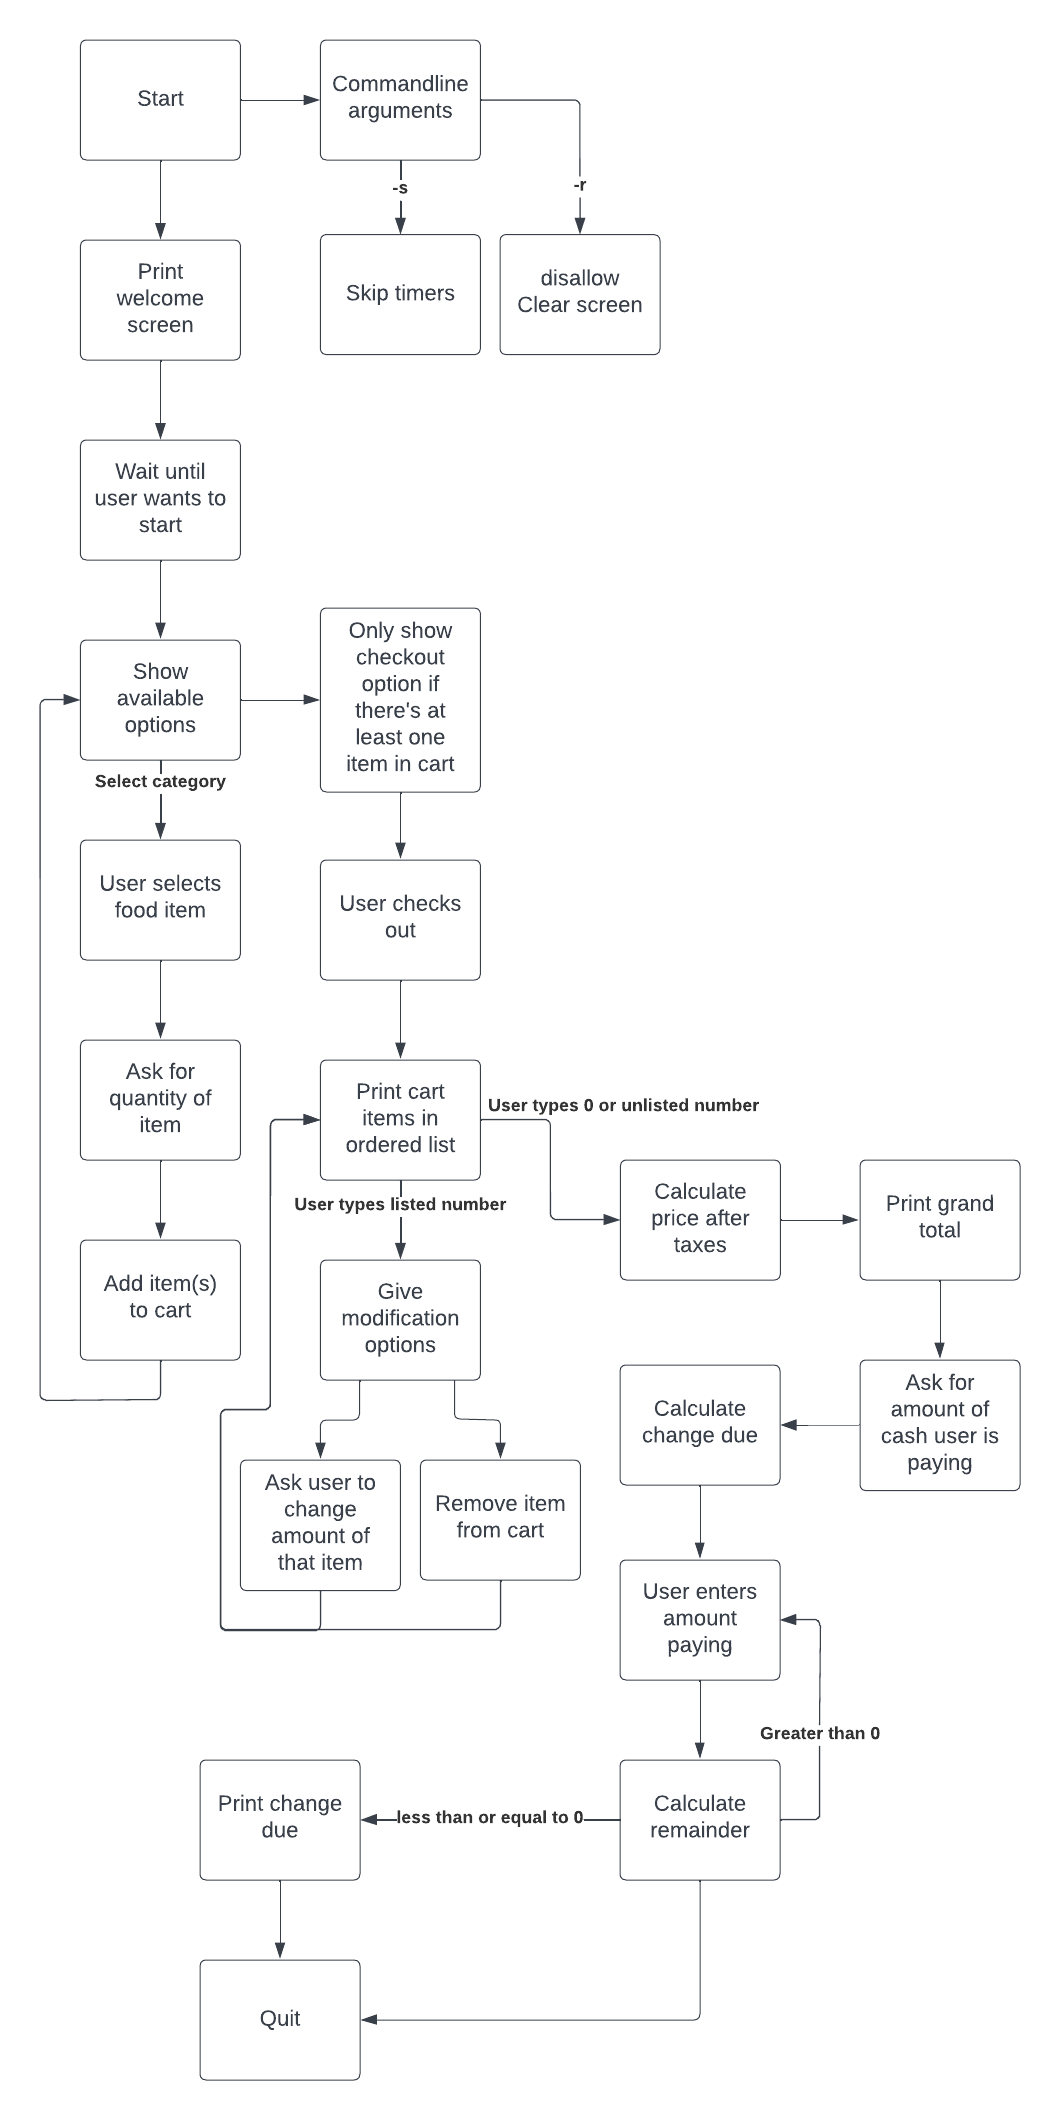
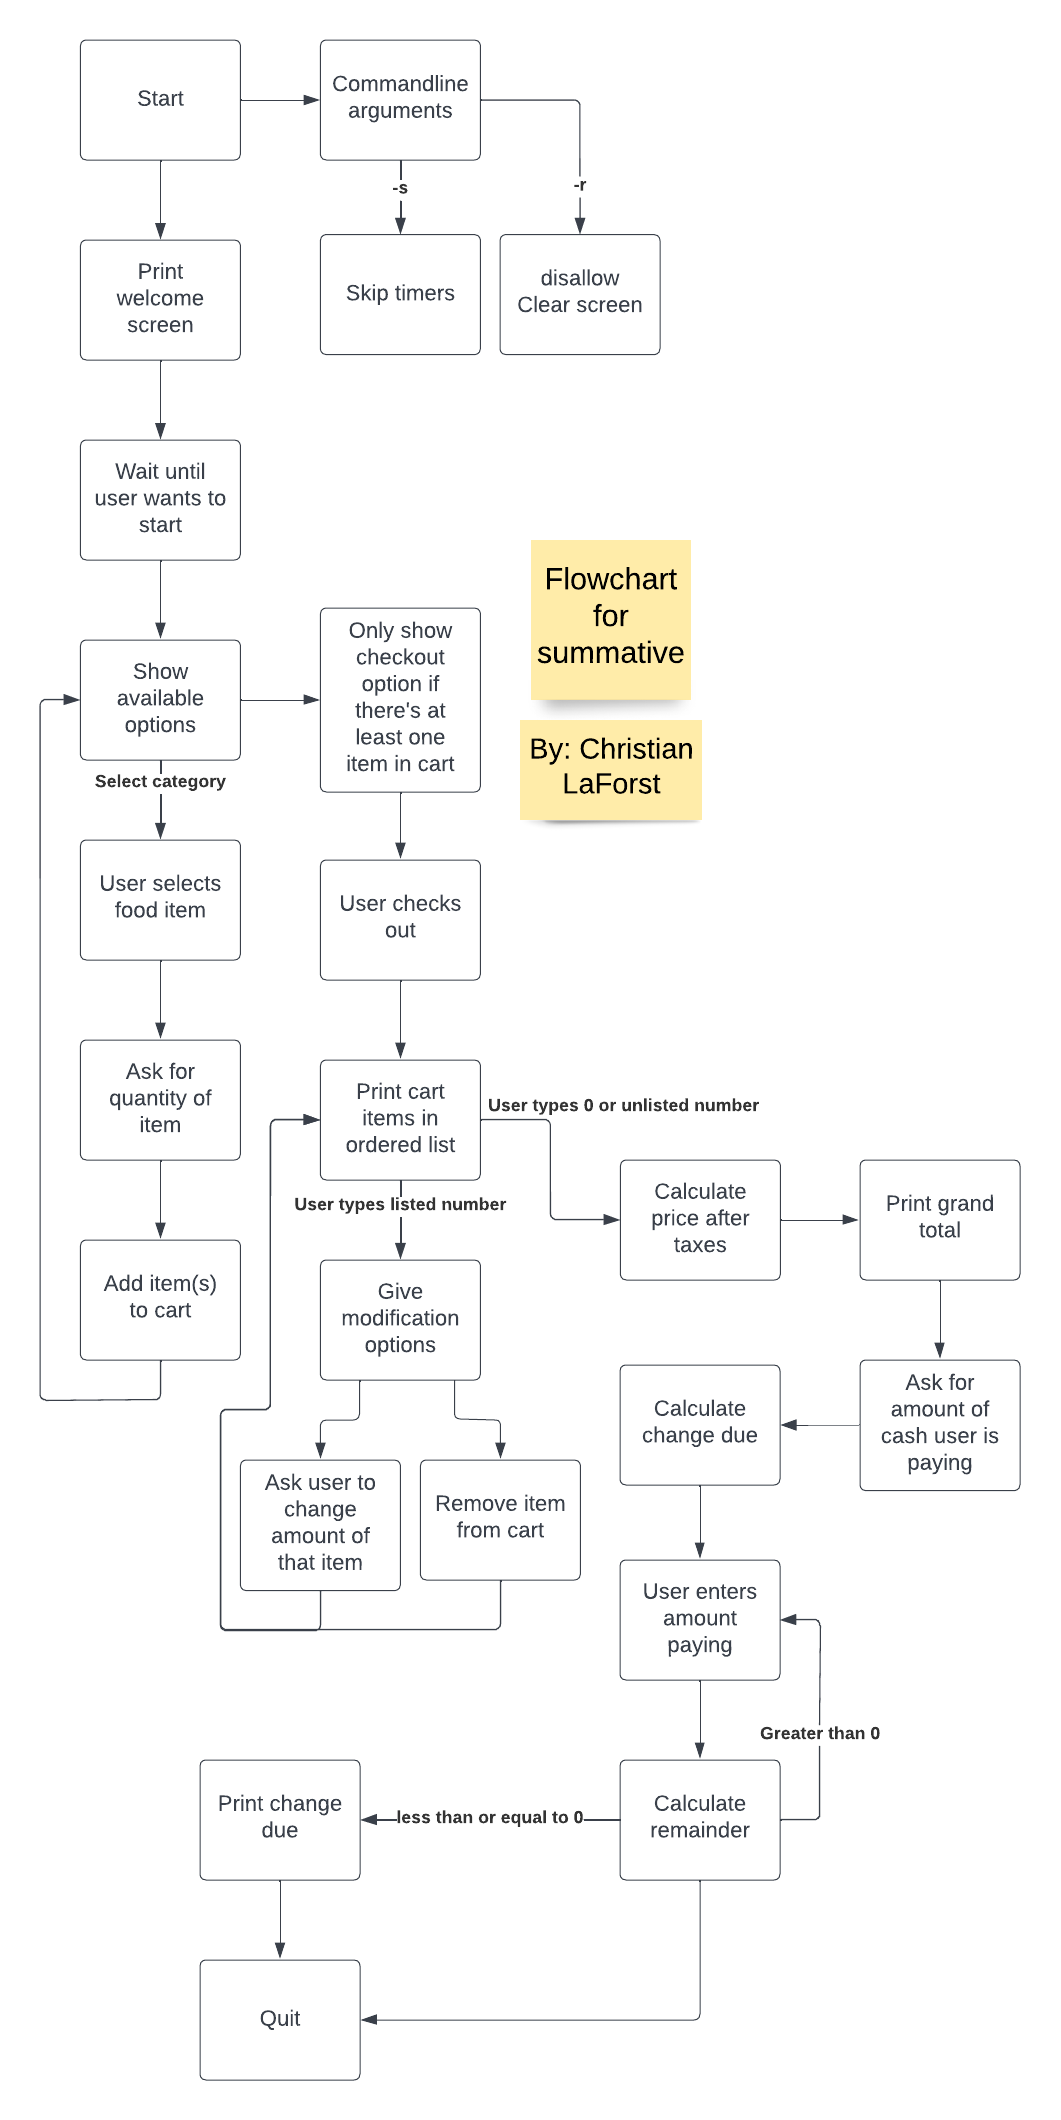
Comments and bug fixes

Changed region(s): [[0.4665, 0.2491, 0.6843, 0.4047]]

diff --git a/src/main.cpp b/src/main.cpp
@@ -1,3 +1,13 @@
+/**
+ * By: Christian LaForest
+ * Date: July 25-27, 2022
+ * Notes:
+ *  - The program has a lot more options than required, it was because I read the
+ *      part that says I need 5-6 items after I had already sort-of implemented the
+ *      whole system, so there are 47-ish under 4 categories
+ *  - Follow the README.md to build and run this application
+ */
+
 #include <iostream>
 #include <tuple>
 #include <variant>
@@ -11,30 +21,16 @@ template<typename T>
 tuple<T, bool> find_type(vector<tuple<T, string>> vec);
 void get_total(const vector<tuple<int, int>> &order);
 
-/**
- * @brief Parses the arguments out of argv, and places them into a predefined array
- * @param argc int - size of argv
- * @param argv char ** - array of char *(strings)
- * @param args list of pairs of string and bool &, the value will be placed in the bool &
- */
-void parse_args(int argc, char **argv, vector<tuple<string, bool &>> args) {
-  // make everything false
-  for (auto &[_, y]: args) y = false;
-
-  // check if the argument is in the list, if it is, make true
-  for (int i = 0; i < argc; ++i)
-    for (auto &[x, y]: args) if (argv[i] == x) y = true;
-}
+void parse_args(int argc, char **argv, const vector<tuple<string, bool &>> &args);
 
 int main(int argc, char **argv) {
-  bool invalid_credit;
+  // parse commandline arguments and put them into the variables specified
   parse_args(argc, argv, {
-      {"-c", invalid_credit},
       {"-s", constants::skip_timers},
       {"-r", constants::dont_clear},
   });
 
-  vector<tuple<int, int>> order;
+  vector<tuple<int, int>> order; // initialize the order
 
   // wait for start
   print(constants::welcome_screen);
@@ -46,32 +42,38 @@ int main(int argc, char **argv) {
 
   do {
     clear_screen
-    print_categories(!order.empty());
-    auto [p, err] = find_type(item_strings);
-    if (err)continue;
+    print_categories(!order.empty()); // print the categories, add "Checkout" if the cart isn't empty
+    auto [p, err] = find_type(item_strings); // ask user for input and get type of order
+    if (err) continue; // if there's an error (invalid input), skip everything and repeat
     clear_screen
 
 
-    // both will be set in switch statement
+    /*
+     * Burgers, Wraps, ChickenAndFish, and Drinks are all the same logically except that
+     *    they do the process for their specific list
+     */
     switch (p) {
-      case UNKNOWN:if (util::prompt<string>("Are you sure you want to exit (y/n): ") == "y") return 0;
+      case UNKNOWN: // ask user if they want to exit
+        if (util::prompt<string>("Are you sure you want to exit (y/n): ") == "y") return 0;
         break;
       case Burgers: {
-        print_burgers();
-        auto [o, e] = find_type(burger_strings);
-        if (e) continue;
-        int amt = util::prompt<int>("How many? ");
-        if (amt < 0) {
+        print_burgers(); // print the list of burgers
+        auto [o, e] = find_type(burger_strings); // get user input and the enum type
+        if (e) continue; // if there's an error, continue
+        if (o == -1) continue; // if it's an invalid burger, continue
+        int amt = util::prompt<int>("How many? "); // ask how many
+        if (amt < 0) { // if < 0, print its invalid, and continue
           cout << "That's invalid" << endl;
           continue;
-        } else if (amt == 0) continue;
-        order.emplace_back(o, amt);
+        } else if (amt == 0) continue; // if equal to 0, continue without printing anything
+        order.emplace_back(o, amt); // add the item type and quantity to the order
         break;
       }
-      case Wraps: {
+      case Wraps: { // same thing as burger, but with wraps
         print_wraps();
         auto [o, e] = find_type(wrap_strings);
         if (e) continue;
+        if (o == -1) continue; // if it's an invalid burger, continue
         int amt = util::prompt<int>("How many? ");
         if (amt < 0) {
           cout << "That's invalid" << endl;
@@ -80,10 +82,11 @@ int main(int argc, char **argv) {
         order.emplace_back(o, amt);
         break;
       }
-      case ChickenAndFish: {
+      case ChickenAndFish: { // same things as burger, but with chicken and fish
         print_cf();
-        auto [o, e] = find_type(c_f_strings);
+        auto [o, e] = find_type(cf_strings);
         if (e) continue;
+        if (o == -1) continue; // if it's an invalid burger, continue
         int amt = util::prompt<int>("How many? ");
         if (amt < 0) {
           cout << "That's invalid" << endl;
@@ -92,10 +95,11 @@ int main(int argc, char **argv) {
         order.emplace_back(o, amt);
         break;
       }
-      case Drinks: {
+      case Drinks: { // same thing as burger, but with drinks
         print_drinks();
         auto [o, e] = find_type(drink_strings);
         if (e) continue;
+        if (o == -1) continue; // if it's an invalid burger, continue
         int amt = util::prompt<int>("How many? ");
         if (amt < 0) {
           cout << "That's invalid" << endl;
@@ -107,24 +111,28 @@ int main(int argc, char **argv) {
       case Checkout: {
         checkout: // goto flag, lets us go back without a loop
         clear_screen
-        print_order(order);
+        print_order(order); // print order
+
+        // confirm checkout
         if (util::prompt<string>("Do you want to checkout (y/n)? ") != "y") continue;
 
+        // get item to change
         int o = util::prompt<int>("Is there anything you want to change (0 to continue)? ");
-        if (o == 0) {
-          get_total(order);
+        if (o == 0) { // no items to change, finish up
+          get_total(order); // print total, and get payment
           return 0;
         } else {
+          // get item to remove
           int r = util::prompt<int>("How much do you want (0 to remove)? ");
           o -= 1; // 1 for the user is 0 for us, so we need to move it over
-          auto &t = order[o];
-          auto &[x, y] = t;
+          auto &t = order[o]; // get the tuple out of the order
+          auto &[x, y] = t; // get the values out of the tuple (t)
 
-          if (r == 0) {
+          if (r == 0) { // if r == 0, remove the item from the list
             std::remove(order.begin(), order.end(), t);
             goto checkout; // goes back to top of case
-          } else {
-            order[o] = {x, r};
+          } else { // else modify item
+            order[o] = {x, r}; // overwrite order[o] with the new value
             goto checkout; // goes back to top of case
           }
         }
@@ -132,7 +140,7 @@ int main(int argc, char **argv) {
       }
       default: { // catch everything else
         print("Invalid option");
-        wait(1000ms);
+        wait(100ms);
         break;
       }
     }
@@ -157,22 +165,45 @@ tuple<T, bool> find_type(vector<tuple<T, string>> vec) {
       print("Invalid option (Watch for case sensitivity)!"); // print an error
       return {p, true}; // return the end, and that there is an error
     }
-  } else p = std::get<0>(vec[stoi(opt) - 1]);
+  } else p = std::get<0>(vec[stoi(opt) - 1]); // else get the option through index
 
   return {p, false}; // return p and no error
 }
 
+/**
+ * @brief Prints the total,
+ * Then gets user to input cash until the amount paid >= amount owed
+ * @param order The list of items
+ */
 void get_total(const vector<tuple<int, int>> &order) {
-  double total_due = print_total(order);
+  double total_due = print_total(order); // print total, it also returns it as a double
   do {
-    int tender = util::prompt<int>("Enter amount tendered: ");
-    if (tender > total_due) {
+    int tender = util::prompt<int>("Enter amount tendered: "); // get amount entered
+    if (tender > total_due) { // amt paid > total due
       printf("Change Due: %.2f\n", tender - total_due); // formatting the output
-      return;
+      return; // exit
+    } else if (tender == total_due) { // amt paid == total due
+      print("Exact change!\n");
+      return; // exit
     } else {
       total_due -= tender;
       printf("Your short $%.2f\n", total_due); // formatting the output
     }
-    cout.flush(); // compatibility
+    cout.flush(); // compatibility with more terminals
   } while (total_due > 0);
+}
+
+/**
+ * @brief Parses the arguments out of argv, and places them into a predefined array
+ * @param argc int - size of argv
+ * @param argv char ** - array of char *(strings)
+ * @param args list of pairs of string and bool &, the value will be placed in the bool &
+ */
+void parse_args(int argc, char **argv, const vector<tuple<string, bool &>> &args) {
+  // make everything false
+  for (auto &[_, y]: args) y = false;
+
+  // check if the argument is in the list, if it is, make true
+  for (int i = 0; i < argc; ++i)
+    for (auto &[x, y]: args) if (argv[i] == x) y = true;
 }

diff --git a/src/printers.h b/src/printers.h
@@ -20,6 +20,10 @@ void print_start() {
   cout << "Done!" << endl;
 }
 
+/**
+ * @brief Prints the possible categories for the user
+ * @param checkout whether or not to add the checkout flag
+ */
 void print_categories(bool checkout = false) {
   if (!checkout)
     util::menu("Categories", {
@@ -38,22 +42,46 @@ void print_categories(bool checkout = false) {
     });
 }
 
+/**
+ * @brief Prints a menu for the burgers
+ * takes the burger_strings, removes the keys, making it a vector of strings (remove the keys)
+ *      then removes the last item, because it's an UNKNOWN, that shouldn't be accessible to users
+ */
 void print_burgers() {
   util::menu("Burgers", util::remove_last(util::strip(burger_strings)));
 }
 
+/**
+ * @brief Prints a menu for the wraps
+ * takes the wrap_strings, removes the keys, making it a vector of strings (remove the keys)
+ *      then removes the last item, because it's an UNKNOWN, that shouldn't be accessible to users
+ */
 void print_wraps() {
   util::menu("Wraps: ", util::remove_last(util::strip(wrap_strings)));
 }
 
+/**
+ * @brief Prints a menu for the chicken and fish
+ * takes the cf_strings, removes the keys, making it a vector of strings (remove the keys)
+ *      then removes the last item, because it's an UNKNOWN, that shouldn't be accessible to users
+ */
 void print_cf() {
-  util::menu("Chicken & Fish", util::remove_last(util::strip(c_f_strings)));
+  util::menu("Chicken & Fish", util::remove_last(util::strip(cf_strings)));
 }
 
+/**
+ * @brief Prints a menu for the drinks
+ * takes the drink_strings, removes the keys, making it a vector of strings (remove the keys)
+ *      then removes the last item, because it's an UNKNOWN, that shouldn't be accessible to users
+ */
 void print_drinks() {
   util::menu("Drinks", util::remove_last(util::strip(drink_strings)));
 }
 
+/**
+ * @brief Prints the order from the order string
+ * @param order the map of id number and quantities
+ */
 void print_order(vector<tuple<int, int>> order) {
   // make a menu of the cart. Since the stored items are as their ids,
   //  we need to get their names from the map. The foreach essentially makes
@@ -70,6 +98,11 @@ void print_order(vector<tuple<int, int>> order) {
       }));
 }
 
+/**
+ * @brief Prints the total and also returns it
+ * @param order map of ids and quantities
+ * @return the total
+ */
 double print_total(const vector<tuple<int, int>> &order) {
   double total = 0.00;
   for (auto &[idx, quantity]: order) {

diff --git a/src/items.h b/src/items.h
@@ -17,6 +17,7 @@ using namespace std;
  * Instead of having to parse strings each time, we only do each once
  */
 
+// possible categories for the items
 enum Item {
   Burgers = 0,
   Wraps = 1,
@@ -25,6 +26,7 @@ enum Item {
   Checkout = 4,
   UNKNOWN = -1,
 };
+// a map to map out what strings mean what enum type, allows for string to enum conversion
 vector<tuple<Item, string>> item_strings = {
     {Burgers, "Burgers"},
     {Wraps, "Wraps"},
@@ -54,6 +56,7 @@ enum Burger {
   UNKNOWNBURGER = -1,
 }; // 14 items
 
+// burger LUT to string, allows for easier conversion between the two
 const vector<tuple<Burger, string>> burger_strings = {
     {BigMac, "BigMac"},
     {QuarterPounderwithCheese, "QuarterPounderWithCheese"},
@@ -84,6 +87,7 @@ enum Wrap {
   UNKNOWNWRAP = -1,
 }; // 7 items
 
+// allows for conversion to and from strings
 const vector<tuple<Wrap, string>> wrap_strings = {
     {McWrapChicken, "McWrapChicken"},
     {McWrapSweetChiliChicken, "McWrapSweetChiliChicken"},
@@ -107,7 +111,8 @@ enum Chicken_Fish {
   UNKNOWNCF = -1,
 }; // 8 items
 
-vector<tuple<Chicken_Fish, string>> c_f_strings = {
+// allows for conversion to and from strings
+vector<tuple<Chicken_Fish, string>> cf_strings = {
     {ChickenMcNuggets, "ChickenMcNuggets"},
     {ChickenClassicSandwich, "ChickenClassicSandwich"},
     {ChickenClub, "ChickenClub"},
@@ -144,6 +149,7 @@ enum Drink {
   UNKNOWNDRINK = -1,
 }; // 21 items
 
+// allows for conversion to and from strings
 vector<tuple<Drink, string>> drink_strings = {
     {Coffee, "Coffee"},
     {Latte, "Latte"},
@@ -220,14 +226,14 @@ const float prices[47] = {
 };
 
 /**
- * @brief Gets the name of a type that is unknown
+ * @brief Gets the name (string) of a type that is unknown at the time
  * @param i the int index of the type, casting to int will do
  * @return the name as a string
  */
 string name_from_possible(int i) {
   if (i >= 0 && i < 14) return get<1>(burger_strings[i - burger_offset]);
   if (i >= 14 && i < 20) return get<1>(wrap_strings[i - wrap_offset]);
-  if (i >= 20 && i < 27) return get<1>(c_f_strings[i - cf_offset]);
+  if (i >= 20 && i < 27) return get<1>(cf_strings[i - cf_offset]);
   if (i >= 27 && i <= 46) return get<1>(drink_strings[i - drink_offset]);
   return "UNKNOWN";
 }

diff --git a/src/constants.h b/src/constants.h
@@ -20,10 +20,12 @@
 
 using namespace std;
 
+// some macros for making life slightly easier
 #define wait(x) std::this_thread::sleep_for(constants::skip_timers ? 0ms : (x))
 #define print(x) cout << (x) << endl
 
 namespace constants {
+// the welcome screen as a constant string, because it doesn't change
 const string welcome_screen = R"(******************************************************
 *  __  __      _____                    _     _      *
 * |  \/  |    |  __ \                  | |   | |     *
@@ -33,6 +35,7 @@ const string welcome_screen = R"(***********************************************
 * |_|  |_|\___|_____/ \___/|_| |_|\__,_|_|\__,_|___/ *
 ******************************************************)";
 
+// some global variables for debugging
 bool skip_timers = false;
 bool dont_clear = true;
 
